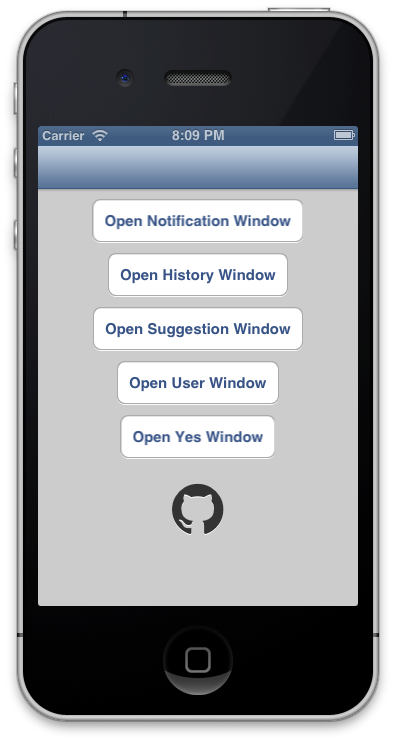
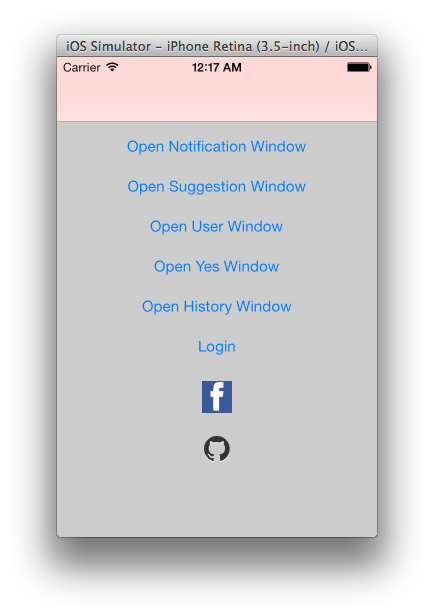
Master Base Commit for iOS7. This uses the new status bar styling along with NavigationWindow as well various window s. We also reorganized the logic a bit so that  contains our top-level code (main screen) inserting  in the window. NavigationWindow replaces a top-level window for the iOS platform, 

diff --git a/app/lib/xpng.js b/app/lib/xpng.js
@@ -1,8 +1,13 @@
 //https://github.com/ricardoalcocer/TiCrossPlatformNavigationGroup/tree/master/app
 exports.openWin=function(navGroup,winName){
-	var w=Alloy.createController(winName).getView();
 
-	if (OS_ANDROID){
+	if (typeof Alloy === 'undefined'){
+		var w=winName; // transfer the value to a new variable so the rest of the code remains the same	
+	}else{
+		var w=Alloy.createController(winName).getView();
+	};
+
+	if (Ti.Platform.osname==='android'){
 		w.addEventListener('open',function(e){
 			if (! w.getActivity()) {
 				Ti.API.error("Can't access action bar on a lightweight window.");
@@ -19,6 +24,6 @@ exports.openWin=function(navGroup,winName){
 		});
 		w.open();
 	}else{
-		navGroup.open(w,{animated:true,transition:Ti.UI.iPhone.AnimationStyle.FLIP_FROM_RIGHT});
+		navGroup.openWindow(w,{animated:true});
 	}
 };

diff --git a/app/controllers/index.js b/app/controllers/index.js
@@ -1,1 +1,23 @@
-Alloy.createController('main').getView().open();
+require("helper");
+var XHR = require("xhr");
+var xpng = require('xpng');
+
+var xhr = new XHR();
+
+var fontawesome = require('IconicFont').IconicFont({
+	font: 'FontAwesome',
+	ligature: false	// optional
+});
+
+Alloy.CFG.red = "red";
+
+$.mainwin.statusBarStyle = Titanium.UI.iPhone.StatusBar.DEFAULT;
+
+Alloy.CFG.nav=$.nav;
+
+if (OS_ANDROID){
+	$.index.open();
+}
+else {
+	$.nav.open();
+}

diff --git a/app/alloy.js b/app/alloy.js
@@ -9,3 +9,7 @@
 // object. For example:
 //
 // Alloy.Globals.someGlobalFunction = function(){};
+Alloy.Globals.ENV = 'dev';//'dev' or 'prod'
+Alloy.Globals.API_URL_DEV = 'http://192.168.1.105:8000/api/';
+Alloy.Globals.API_URL_PROD = 'http://appconglomerate-env-2dargnpmjn.elasticbeanstalk.com/api/';
+Alloy.Globals.API_URL = (Alloy.Globals.ENV == 'dev') ? Alloy.Globals.API_URL_DEV : Alloy.Globals.API_URL_PROD;

diff --git a/app/controllers/main.js b/app/controllers/main.js
@@ -1,19 +1,4 @@
-require("helper");
-var XHR = require("xhr");
 var xpng = require('xpng');
-
-var fontawesome = require('IconicFont').IconicFont({
-	font: 'FontAwesome',
-	ligature: false	// optional
-});
-
-
-Alloy.CFG.red = "red";
-
-if (OS_IOS && !Alloy.CFG.nav){
-	Alloy.CFG.nav=$.nav;
-}
-
 
 function openwin(windowName){
 	xpng.openWin(Alloy.CFG.nav,windowName);

diff --git a/app/lib/helper.js b/app/lib/helper.js
@@ -3,5 +3,3 @@
 obj2params = function(){
   return _.map(this, function(v,k){return encodeURIComponent(k)+'='+encodeURIComponent(v);}).join('&');
 };
-
-Ti.App.API_URL = 'http://appconglomerate-env-2dargnpmjn.elasticbeanstalk.com/api/';

diff --git a/app/controllers/yes.js b/app/controllers/yes.js
@@ -1,0 +1,1 @@
+$.index.statusBarStyle = Titanium.UI.iPhone.StatusBar.TRANSLUCENT_BLACK;

diff --git a/app/controllers/suggestion.js b/app/controllers/suggestion.js
@@ -1,0 +1,1 @@
+$.index.statusBarStyle = Titanium.UI.iPhone.StatusBar.LIGHT_CONTENT;

diff --git a/app/controllers/user.js b/app/controllers/user.js
@@ -1,0 +1,1 @@
+$.index.statusBarStyle = Titanium.UI.iPhone.StatusBar.OPAQUE_BLACK;

diff --git a/app/controllers/notification.js b/app/controllers/notification.js
@@ -1,0 +1,1 @@
+$.index.statusBarStyle = Titanium.UI.iPhone.StatusBar.GREY;

diff --git a/app/controllers/history.js b/app/controllers/history.js
@@ -1,0 +1,1 @@
+$.index.fullscreen = true;

diff --git a/README.md b/README.md
@@ -9,6 +9,22 @@ Authors:
 - Michael Laskin ([@mrbundren](https://github.com/mrbundren))
 - Simas Glinskis ([@ultysim](https://github.com/ultysim))
 
-### Main Screen Image
+### Images
 
 ![main screen](https://github.com/kratsg/agglomerate/blob/master/mainScreen.png?raw=true)
+- `Ti.UI.Window.statusBarStyle = Titanium.UI.iPhone.StatusBar.DEFAULT;`
+
+![notifications](https://github.com/kratsg/agglomerate/blob/master/notifications.png?raw=true)
+- `Ti.UI.Window.statusBarStyle = Titanium.UI.iPhone.StatusBar.GREY;`
+
+![suggestion](https://github.com/kratsg/agglomerate/blob/master/suggestion.png?raw=true)
+- `Ti.UI.Window.statusBarStyle = Titanium.UI.iPhone.StatusBar.LIGHT_CONTENT;`
+
+![user](https://github.com/kratsg/agglomerate/blob/master/user.png?raw=true)
+- `Ti.UI.Window.statusBarStyle = Titanium.UI.iPhone.StatusBar.OPAQUE_BLACK;`
+
+![yes](https://github.com/kratsg/agglomerate/blob/master/yes.png?raw=true)
+- `Ti.UI.Window.statusBarStyle = Titanium.UI.iPhone.StatusBar.TRANSLUCENT_BLACK;`
+
+![history](https://github.com/kratsg/agglomerate/blob/master/history.png?raw=true)
+- `Ti.UI.Window.fullscreen = true;`
